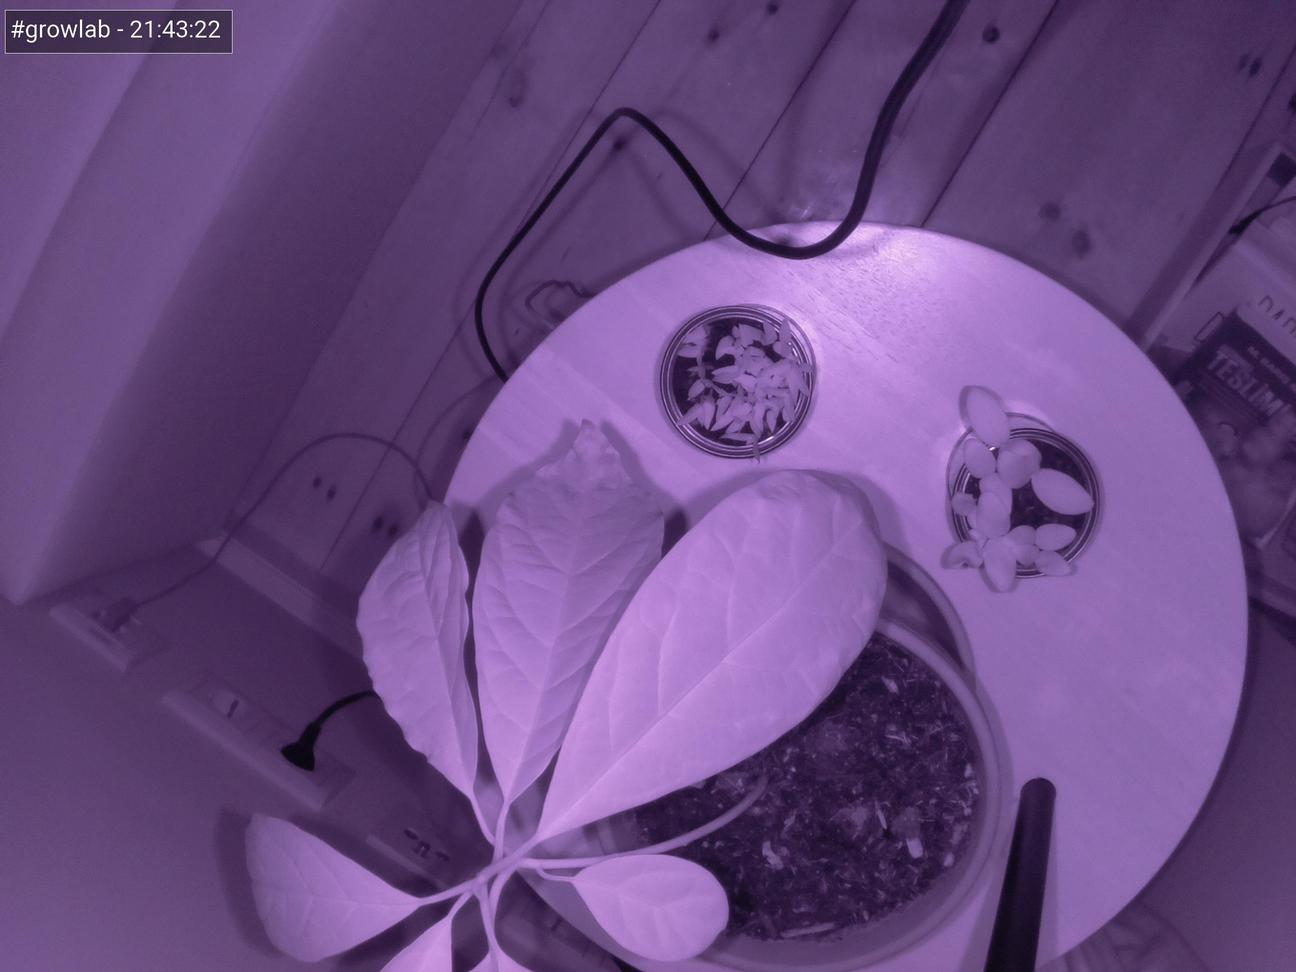
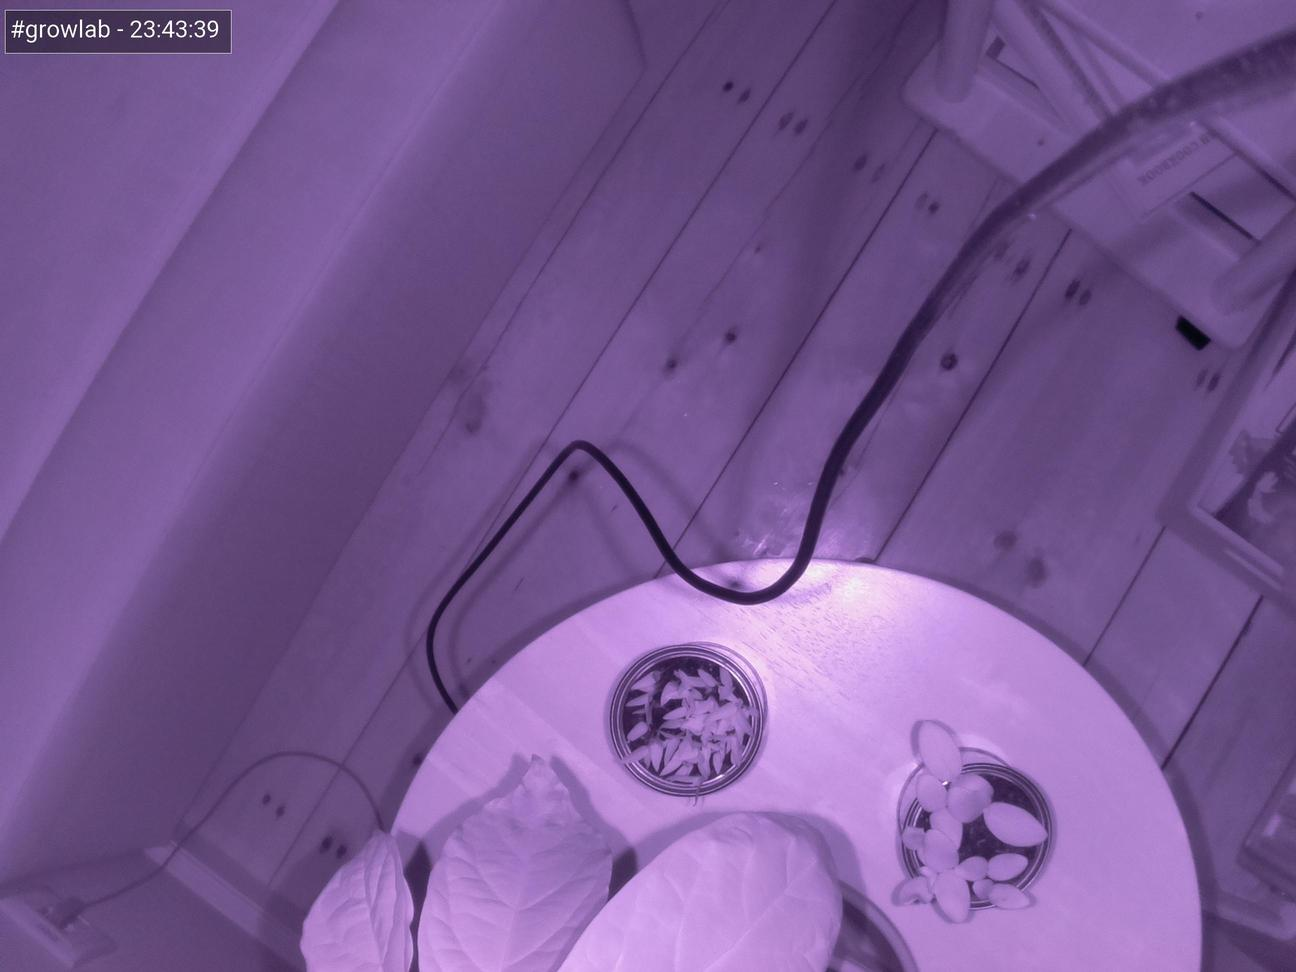
Update images at Sat Jul 31 23:43:47 BST 2021

diff --git a/docs/index.html b/docs/index.html
@@ -47,7 +47,7 @@
                         <tbody>
                             <tr>
                                 <td>Time</td>
-                                <td>21:43:22</td>
+                                <td>23:43:39</td>
                             </tr>
                             <tr>
                                 <td>Temperature</td>
@@ -67,7 +67,7 @@
 
                 <h5>Latest image</h5>
                 <div style="width: 85%;">
-                            <img class="figure-img img-fluid rounded" src="./preview.jpg?uid=1627764210.8197062">
+                            <img class="figure-img img-fluid rounded" src="./preview.jpg?uid=1627771427.5165322">
                 </div>
             </div>
         </div>
